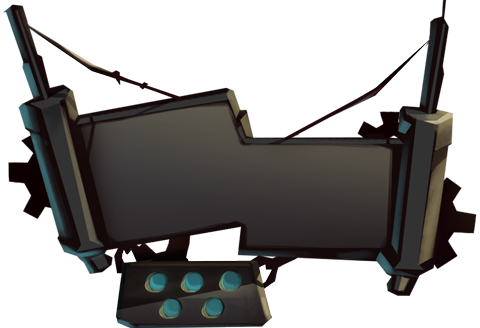
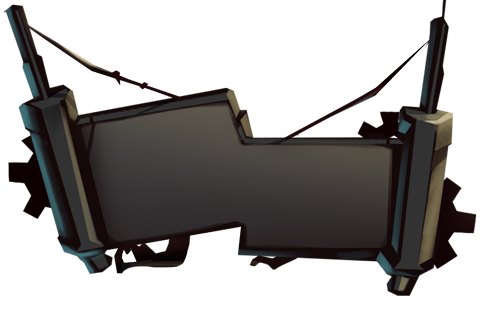
work

Changed region(s): [[0.2188, 0.7927, 0.5938, 1.0]]

diff --git a/src/com/snappycobra/ggj16/graphics/GodPainter.java b/src/com/snappycobra/ggj16/graphics/GodPainter.java
@@ -10,6 +10,7 @@ import org.dyn4j.dynamics.Body;
 import org.dyn4j.geometry.AABB;
 import org.dyn4j.geometry.Vector2;
 
+import com.snappycobra.ggj16.mastermind.Mastermind;
 import com.snappycobra.ggj16.model.Base;
 import com.snappycobra.ggj16.model.Building;
 import com.snappycobra.ggj16.model.Cursor;
@@ -33,8 +34,11 @@ public class GodPainter extends AbstractPainter{
 	private List<Player> players;
 	private int mapWidth, mapHeight;
 	private BufferedImage mapBuffer;
+	private BufferedImage parBuffer;
 	private BufferedImage air, path, foreground, scrap1, scrap2, shrineImg, arrowUp, arrowDown, sacrefice;
-	private BufferedImage mindBoard;
+	private BufferedImage mindBoard, pastMoveBoard, lampB, lampG, lampR, lampY;
+	private BufferedImage cloud, pointer1, pointer2, iconGear, iconOil, iconUranium, iconSilver;
+	private Sprite godSprite = new Sprite(new Frame("data/images/Creatures/God.png", 10));
 	private float alfa;
 	
 	public GodPainter(GameModel gameModel) {
@@ -44,16 +48,31 @@ public class GodPainter extends AbstractPainter{
 		this.mapWidth = map.getWidth()*map.getTileWidth();
 		this.mapHeight = map.getHeight()*map.getTileHeight();
 		this.mapBuffer = newBuffer(mapWidth, mapHeight, Transparency.TRANSLUCENT);
+		this.parBuffer = newBuffer(mapWidth, mapHeight, Transparency.TRANSLUCENT);
 		this.air = ImageManager.getImage("data/images/air.png");
 		this.path = ImageManager.getImage("data/images/background_Path.png");
 		this.foreground = ImageManager.getImage("data/images/voorgrond.png");
-		this.scrap1 = ImageManager.getImage("data/images/background_Scrap1.png");
-		this.scrap2 = ImageManager.getImage("data/images/background_Scrap2.png");
+		this.scrap1 = ImageManager.getImage("data/images/Background/background_Scrap1.png");
+		this.scrap2 = ImageManager.getImage("data/images/Background/background_Scrap2.png");
 		this.sacrefice = ImageManager.getImage("data/images/Hud_Sacrifice.png");
 		this.shrineImg = ImageManager.getImage("data/images/Shrine.png");
 		this.arrowUp = ImageManager.getImage("data/images/Interface_Pijl_up.png");
 		this.arrowDown = ImageManager.getImage("data/images/Interface_Pijl_down.png");
 		this.mindBoard = ImageManager.getImage("data/images/MasterMind/Hud_Mastermind.png");
+		this.pastMoveBoard = ImageManager.getImage("data/images/MasterMind/Hud_Mastermind_Collapse.png");
+		this.cloud = ImageManager.getImage("data/images/background_Cloud.png");
+		this.pointer1 = ImageManager.getImage("data/images/UI/pijltje.png");
+		this.pointer2 = ImageManager.getImage("data/images/UI/pijltje2.png");
+		
+		this.iconGear = ImageManager.getImage("data/images/UI/Icon_Gear.png");
+		this.iconOil = ImageManager.getImage("data/images/UI/Icon_Oil.png");
+		this.iconUranium = ImageManager.getImage("data/images/UI/Icon_Uranium.png");
+		this.iconSilver = ImageManager.getImage("data/images/UI/Icon_Silver.png");
+		
+		this.lampB = ImageManager.getImage("data/images/MasterMind/Lamp_Blue.png");
+		this.lampG = ImageManager.getImage("data/images/MasterMind/Lamp_Green.png");
+		this.lampR = ImageManager.getImage("data/images/MasterMind/Lamp_Red.png");
+		this.lampY = ImageManager.getImage("data/images/MasterMind/Lamp_Yellow.png");
 		
 		this.alfa=0;
 	}
@@ -61,10 +80,10 @@ public class GodPainter extends AbstractPainter{
 	@Override
 	protected void drawFrame(Graphics2D g) {
 		bufferMap();
-		alfa += 0.1*Timer.getPassedTime()/Math.pow(10, 7);
+		alfa += 0.001*Timer.getPassedTime()/Math.pow(10, 7);
 		alfa %= 2*Math.PI;
 		this.drawScreens(g);
-		g.setColor(new Color(1,1,1));
+		
 	}
 	
 	protected void drawScreens(Graphics2D g) {
@@ -77,21 +96,30 @@ public class GodPainter extends AbstractPainter{
 		for (Player player : players) {
 			Cursor cursor = player.getCursor();
 			int posX = (int) (getMap().getWidth()*scaledY-cursor.getPosition()*getMap().getTileWidth()*scaledY);
-			//System.out.println(posX);
-			this.drawTiled(g, air, i*(sHeight/numPlayers));
+			//System.out.println(posX);+
+			this.drawTiled(g, air, i*(sHeight/numPlayers), scaledY);
 			//g.drawImage(air, 0, i*(sHeight/numPlayers), (int)(air.getWidth()*scaledY), (int)(air.getHeight()*scaledY), null);
 			//g.drawImage(air, (int)(air.getWidth()*scaledY), i*(sHeight/numPlayers), (int)(air.getWidth()*scaledY), (int)(air.getHeight()*scaledY), null);
-			this.drawParralax(g, sWidth/2+posX/2, i*(sHeight/numPlayers));
 			this.drawLoopMap(g, sWidth/2+posX, i*(sHeight/numPlayers));
-			this.drawMasterMind(g, i*(sHeight/numPlayers), scaledY*1.2f);
+			this.drawMasterMind(g, player, i*(sHeight/numPlayers), scaledY*1.2f);
 			i++;
 		}
-		g.setColor(Color.BLACK);
+		g.setColor(new Color(1,.5f,.5f,0.1f));
 		g.drawLine(sWidth/2, sHeight, sWidth/2, 0);
+
+		g.setColor(Color.BLACK);
+		g.drawLine(0, sHeight/2-1, sWidth, sHeight/2-1);
+		int pointWidth = (int)(pointer1.getWidth()*2*scaledY);
+		int pointHeight = (int)(pointer1.getHeight()*2*scaledY);
+		g.drawImage(pointer2, sWidth/2-pointWidth/2, 0, pointWidth, pointHeight, null);
+		g.drawImage(pointer1, sWidth/2-pointWidth/2, sHeight/2-pointHeight, pointWidth, pointHeight, null);
+		g.drawImage(pointer2, sWidth/2-pointWidth/2, sHeight/2, pointWidth, pointHeight, null);
+		g.drawImage(pointer1, sWidth/2-pointWidth/2, sHeight-pointHeight, pointWidth, pointHeight, null);
 	}
 	
-	protected void drawMasterMind(Graphics2D g, int offY, float scaledY) {
-		int level = 5;
+	protected void drawMasterMind(Graphics2D g, Player player, int offY, float scaledY) {
+		Mastermind mastermind = player.getMastermind();
+		int level = mastermind.getLength();
 		BufferedImage nodes = ImageManager.getImage("data/images/MasterMind/"+level+"-nodes.png");
 		int width = (int) (mindBoard.getWidth()*scaledY);
 		int height = (int) (mindBoard.getHeight()*scaledY);
@@ -101,6 +129,63 @@ public class GodPainter extends AbstractPainter{
 		int nodesDY = (int)(129*scaledY);
 		g.drawImage(mindBoard, 0, offY, width, height, null);
 		g.drawImage(nodes, nodesDX, nodesDY+offY, nodeWidth, nodeHeight, null);
+		List<Resource> currentTry = mastermind.getCurrentTry();
+		int x=0, y=0;
+		for (int i=0; i<currentTry.size(); i++) {
+			BufferedImage lamp = null;
+			switch (i) {
+			case 0:
+				x=77;
+				y=100;
+				break;
+			case 1:
+				x=130;
+				y=120;
+				break;
+			case 2:
+				x=198;
+				y=125;
+				break;
+			case 3:
+				x=252;
+				y=145;
+				break;
+			case 4:
+				x=310;
+				y=125;
+				break;
+			}
+			switch (currentTry.get(i).getResName()) {
+			case "Oil":
+				lamp = lampY;
+				break;
+			case "Gear":
+				lamp = lampR;
+				break;
+			case "Uranium":
+				lamp = lampG;
+				break;
+			case "Silverfish":
+				lamp = lampB;
+				break;
+			}
+			
+			int lampLocX = (int) (x*scaledY);
+			int lampLocY = (int) (y*scaledY);
+			int lampW = (int) (lamp.getWidth()*scaledY);
+			int lampH = (int) (lamp.getHeight()*scaledY);
+			g.drawImage(lamp, lampLocX, lampLocY+offY, lampW, lampH, null);
+		}
+		this.drawMasterMindHistory(g, player, offY+height/2+(int)(100*scaledY), scaledY);
+	}
+	
+	protected void drawMasterMindHistory(Graphics2D g, Player player, int offY, float scaledY) {
+		Mastermind mastermind = player.getMastermind();
+		int level = mastermind.getLength();
+		int width = (int) (pastMoveBoard.getWidth()*scaledY);
+		int height = (int) (pastMoveBoard.getHeight()*scaledY);
+		//System.o
+		g.drawImage(pastMoveBoard, (int)(45*scaledY), offY, width, height, null);
 	}
 	
 	protected void drawResources(Graphics2D g) {
@@ -112,9 +197,7 @@ public class GodPainter extends AbstractPainter{
 			Sprite sprite = point.getResource().getSprite();
 			int width = sprite.getImage().getWidth();
 			int height = sprite.getImage().getHeight();
-			this.drawSprite(g,sprite, x, y-height);
-			g.setColor(Color.BLACK);
-			g.fillRect(x, y, 10, 10);
+			this.drawSprite(g,sprite, x, y-132, 132, 132);
 		}
 	}
 	
@@ -145,9 +228,9 @@ public class GodPainter extends AbstractPainter{
 		int hudWidth = sacrefice.getWidth();
 		int hudHeight = sacrefice.getHeight();
 		int offY = (int) (5*Math.cos(alfa));
-		g.drawImage(arrowUp, x+hudWidth/2-uArrowWidth/2-15-shrineImg.getWidth()/2, 55+offY, null);
-		g.drawImage(arrowDown, x+hudWidth/2-dArrowWidth/2-15-shrineImg.getWidth()/2, hudHeight-offY, null);
-		g.drawImage(sacrefice, x-shrineImg.getWidth()/2, 0, null);
+		//g.drawImage(arrowUp, x+hudWidth/2-uArrowWidth/2-15-shrineImg.getWidth()/2, 55+offY, null);
+		//g.drawImage(arrowDown, x+hudWidth/2-dArrowWidth/2-15-shrineImg.getWidth()/2, hudHeight-offY, null);
+		//g.drawImage(sacrefice, x-shrineImg.getWidth()/2, 0, null);
 		g.drawImage(shrineImg, x, y-shrineImg.getHeight(), null);
 		g.setColor(Color.BLACK);
 		g.fillRect(x, y, 10, 10);
@@ -185,20 +268,11 @@ public class GodPainter extends AbstractPainter{
 		}
 	}
 	
-	protected void drawParralax(Graphics2D g, int offX, int offY) {
-		int sHeight = this.getHeight();
-		int sWidth = this.getWidth();
-		float scaledY = sHeight/2f/mapHeight;
-		g.drawImage(scrap1, (int)(sWidth*Math.sin(-offX/(float)sWidth)), offY, (int)(scrap1.getWidth()*scaledY), (int)(scrap1.getHeight()*scaledY), null);
-	}
-	
 	protected void drawLoopMap(Graphics2D g, int offX, int offY){
 		int sWidth = this.getWidth();
 		int sHeight = this.getHeight();
 		float scaledY = sHeight/2f/mapHeight;
 		int scaledWidth =  (int) (mapWidth*scaledY);
-		//g.drawImage(scrap2, 100, 0, null);
-		//float scaledY = sHeight/2f/mapHeight;
 		this.drawMap(g, offX%(scaledWidth)+scaledWidth, offY);
 		this.drawMap(g, offX%(scaledWidth), offY);
 		this.drawMap(g, offX%(scaledWidth)-scaledWidth, offY);
@@ -217,19 +291,36 @@ public class GodPainter extends AbstractPainter{
 		Graphics2D g = mapBuffer.createGraphics();
 		g.setBackground(new Color(1,1,1,0));
 		g.clearRect(0, 0, mapWidth, mapHeight);
+		g.drawImage(cloud, (int)(-1000*Math.cos(alfa)+mapWidth/2), 250, null);
+		this.drawGod(g);
+		g.drawImage(cloud, (int)(-2000*Math.cos(alfa+Math.PI)+mapWidth/2), 450, null);
+		g.drawImage(scrap1, 0, 150, null);
+		g.drawImage(scrap2, scrap2.getWidth()+400, 180, null);
+		g.drawImage(scrap2, mapWidth-scrap2.getWidth(), 180, null);
+		g.drawImage(scrap1, mapWidth-scrap2.getWidth()*2-300, 150, null);
 		drawTiled(g, path, mapHeight-path.getHeight());
 		this.drawResources(g);
 		this.drawBuildings(g);
 		this.drawUnits(g);
 		this.drawShrine(g);
 		drawTiled(g, foreground, mapHeight-path.getHeight());
-		//this.drawSprite(g, mapMiddle, 0, 0);
 		g.dispose();
 	}
 	
+	protected void drawGod(Graphics2D g) {
+		int width = godSprite.getImage().getWidth();
+		int height = godSprite.getImage().getHeight();
+		int breatheY = (int) (20*Math.cos(alfa*10));
+		this.drawSprite(g, godSprite, mapWidth/2-width/2+80, 280-breatheY, width, height+breatheY);
+	}
+	
 	protected void drawTiled(Graphics2D g, BufferedImage image, int height) {
-		for (int x=0; x<mapWidth; x+=image.getWidth()) {
-			g.drawImage(image, x, height, null);
+		this.drawTiled(g, image, height, 1f);
+	}
+	
+	protected void drawTiled(Graphics2D g, BufferedImage image, int height, float scaledY) {
+		for (int x=0; x<mapWidth; x+=image.getWidth()*scaledY) {
+			g.drawImage(image, x, height, (int) (image.getWidth()*scaledY), (int)(image.getHeight()*scaledY), null);
 		}
 	}
 

diff --git a/src/com/snappycobra/ggj16/mastermind/Mastermind.java b/src/com/snappycobra/ggj16/mastermind/Mastermind.java
@@ -1,5 +1,7 @@
 package com.snappycobra.ggj16.mastermind;
 
+import java.util.List;
+
 import com.snappycobra.ggj16.model.Resource;
 
 public class Mastermind {
@@ -8,6 +10,7 @@ public class Mastermind {
 	
 	public Mastermind() {
 		length = 1;
+		mastermindGame = new MastermindGame(length);
 	}
 	
 	public boolean addResource(Resource res) {
@@ -21,7 +24,12 @@ public class Mastermind {
 		return false;
 	}
 	
-	public int getLength(int length){
+	public int getLength(){
 		return length;
 	}
+	
+	public List<Resource> getCurrentTry() {
+		return mastermindGame.getCurrentTry();
+	}
+	
 }

diff --git a/src/com/snappycobra/ggj16/model/Player.java b/src/com/snappycobra/ggj16/model/Player.java
@@ -19,6 +19,7 @@ public class Player{
 	
 	public Player(int playerNumber, Map map) {
 		fillBuildingList(playerNumber, map);
+		mastermind = new Mastermind();
 	}
 	
 	public void addResource(String resName, int amount) {
@@ -68,5 +69,9 @@ public class Player{
 		if (mastermind.addResource(res)) {
 			System.out.println("Je bent de ownende supah winner.");
 		}
+	}
+	
+	public Mastermind getMastermind() {
+		return this.mastermind;
 	}
 }

diff --git a/src/com/snappycobra/ggj16/Main.java b/src/com/snappycobra/ggj16/Main.java
@@ -23,7 +23,7 @@ public class Main {
 	public static void main(String[] args){
 		GameModel model = new GameModel(2);
 		GodPainter painter = new GodPainter(model);
-		Window window = new Window(300,300,painter);
+		Window window = new Window(800,600,painter);
 		List<Player> players = model.getPlayerList();
 
 		CursorController controller1 = new ArrowCursorController(players.get(0).getCursor());

diff --git a/src/com/snappycobra/ggj16/model/Gatherer.java b/src/com/snappycobra/ggj16/model/Gatherer.java
@@ -13,7 +13,7 @@ public class Gatherer extends Job {
 	public Gatherer(Unit owner, ResourcePoint gatherAt) {
 		this.owner = owner;
 		this.gatherAt = gatherAt;
-		this.sprite = new Sprite(new Frame("data/images/Workers/Worker_Blue.png", 10));
+		sprite = new Sprite(Frame.framesFromTileset("data/images/Creatures/player00_white_walk.png", 7, 256, 256));
 		yield = 0;
 		maxYield = 1;
 	}

diff --git a/src/com/snappycobra/ggj16/model/JobLess.java b/src/com/snappycobra/ggj16/model/JobLess.java
@@ -6,7 +6,7 @@ import com.snappycobra.motor.graphics.Sprite;
 public class JobLess extends Job {
 	
 	public JobLess() {
-		sprite = new Sprite(new Frame("data/images/Workers/Worker_Green.png", 10));
+		sprite = new Sprite(Frame.framesFromTileset("data/images/Creatures/player00_sleep_white.png", 7, 256, 256));
 	}
 	@Override
 	public void update() {

diff --git a/src/com/snappycobra/ggj16/model/Silverfish.java b/src/com/snappycobra/ggj16/model/Silverfish.java
@@ -6,7 +6,7 @@ import com.snappycobra.motor.graphics.Sprite;
 public class Silverfish extends Resource {
 	
 	public Silverfish() {
-		this.sprite = new Sprite(new Frame("data/images/resource_silver.png", 10));
+		this.sprite = new Sprite(new Frame("data/images/Resources/resource-silver.png", 10));
 	}
 	
 	public static String getResName() {

diff --git a/src/com/snappycobra/ggj16/model/Uranium.java b/src/com/snappycobra/ggj16/model/Uranium.java
@@ -6,7 +6,7 @@ import com.snappycobra.motor.graphics.Sprite;
 public class Uranium extends Resource {
 	
 	public Uranium() {
-		this.sprite = new Sprite(new Frame("data/images/resource_uranium.png", 10));
+		this.sprite = new Sprite(new Frame("data/images/Resources/resource-uranium.png", 10));
 	}
 	
 	public static String getResName() {

diff --git a/src/com/snappycobra/ggj16/mastermind/OldCombination.java b/src/com/snappycobra/ggj16/mastermind/OldCombination.java
@@ -7,9 +7,12 @@ import com.snappycobra.ggj16.model.Resource;
 
 public class OldCombination {
 	private List<Resource> resourceList;
+	private int poscol;
+	private int col;
 	
 	public OldCombination(Combination com, int poscol, int col) {
 		resourceList = com.getResourceList();
-		
+		this.poscol = poscol;
+		this.col = col;
 	}
 }

diff --git a/src/com/snappycobra/ggj16/model/Gear.java b/src/com/snappycobra/ggj16/model/Gear.java
@@ -6,7 +6,7 @@ import com.snappycobra.motor.graphics.Sprite;
 public class Gear extends Resource {
 
 	public Gear() {
-		this.sprite = new Sprite(new Frame("data/images/resource_cogs.png", 10));
+		this.sprite = new Sprite(new Frame("data/images/Resources/resource-gears.png", 10));
 	}
 	
 	public static String getResName() {

diff --git a/src/com/snappycobra/ggj16/model/Oil.java b/src/com/snappycobra/ggj16/model/Oil.java
@@ -8,7 +8,7 @@ import com.snappycobra.motor.graphics.Sprite;
 public class Oil extends Resource {
 	
 	public Oil() {
-		this.sprite = new Sprite(new Frame("data/images/resource_oil.png", 10));
+		this.sprite = new Sprite(new Frame("data/images/Resources/resource-oil.png", 10));
 	}
 	
 	public static String getResName() {

diff --git a/src/com/snappycobra/ggj16/model/Cursor.java b/src/com/snappycobra/ggj16/model/Cursor.java
@@ -20,7 +20,7 @@ public class Cursor {
 		this.mapWidth = mapWidth;
 		this.movingLeft=false;
 		this.movingRight=false;
-		position =0;// mapWidth/2;
+		position = mapWidth/2;
 	}
 	
 	public void click() {
